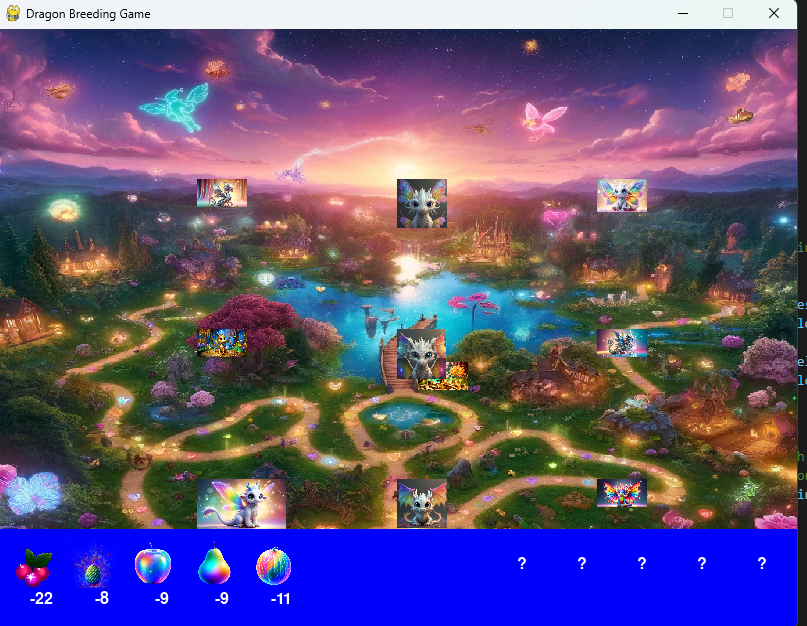
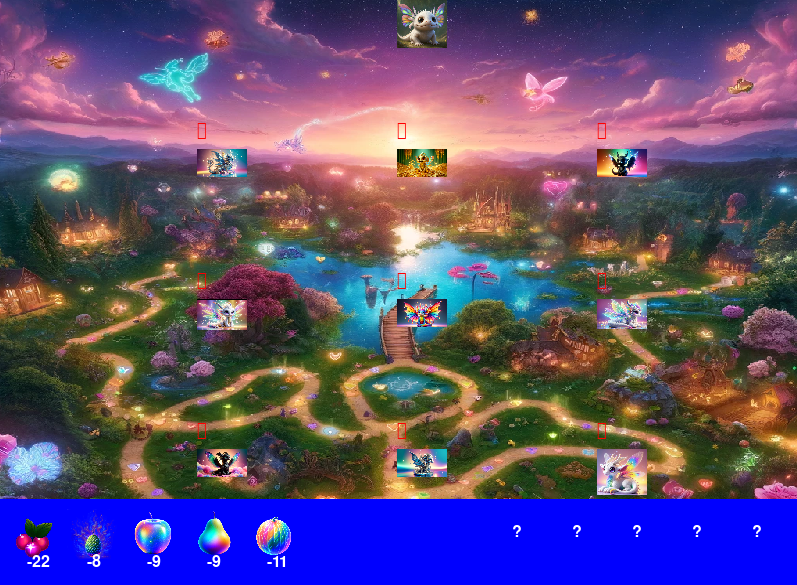
fruit spawns

diff --git a/breeding.py b/breeding.py
@@ -2,6 +2,7 @@ import pygame
 import sqlite3
 import os
 import random
+import math
 from tkinter import Tk, filedialog
 
 # Constants
@@ -11,6 +12,10 @@ RED = (255, 0, 0)
 WHITE = (255, 255, 255)
 BACKGROUND_IMAGE = "breedingbackground.png"
 DRAGON_IMAGE_FOLDER = "dragons"  # Correct folder containing dragon images
+FRUIT_SPEED_MODIFIERS = {
+    "gleamberry": -0.5,
+    "shimmeringapple": 0.5,
+}
 
 # Initialize Pygame
 pygame.init()
@@ -18,6 +23,7 @@ pygame.font.init()  # Initialize the font module
 
 # Define font
 small_font = pygame.font.Font(None, 24)
+large_font = pygame.font.Font(None, 36)
 
 # Load background image
 background = pygame.image.load(BACKGROUND_IMAGE)
@@ -147,6 +153,8 @@ for i, dragon_data in enumerate(selected_dragons):
     
     dragon_image = pygame.transform.scale(dragon_image, new_size)
     
+    initial_speed = 1.5 + (0.5 if "speed" in dragon_data[4].lower() or "Flightspeed" in dragon_data[6] else 0)
+    
     dragon = {
         "id": dragon_data[0],
         "name": dragon_data[3],
@@ -159,14 +167,19 @@ for i, dragon_data in enumerate(selected_dragons):
         "nurture": dragon_data[9],
         "gender": dragon_data[10],
         "image": dragon_image,
-        "position": positions[i]
+        "position": list(positions[i]),  # Convert tuple to list for mutability
+        "speed": initial_speed,
+        "target": None,
+        "holding_fruit": None
     }
     dragons.append(dragon)
 
-def draw_text(surface, text, font, color, rect):
+# Function to draw text
+def draw_text(surface, text, font, color, position):
     text_surface = font.render(text, True, color)
-    surface.blit(text_surface, (rect.x + (rect.width - text_surface.get_width()) // 2, rect.y + (rect.height - text_surface.get_height()) // 2))
+    surface.blit(text_surface, position)
 
+# Function to draw inventory
 def draw_inventory(surface, inventory, selected_inventory_slot=None):
     pygame.draw.rect(surface, BLUE, (0, HEIGHT - 100, WIDTH, 100))  # Adjusted to fit within the screen dimensions
 
@@ -180,7 +193,7 @@ def draw_inventory(surface, inventory, selected_inventory_slot=None):
             pygame.draw.rect(surface, RED, box_rect, 3)  # Highlight selected slot
         if slot is None:
             # Draw empty slot with ?
-            draw_text(surface, "?", small_font, WHITE, box_rect)
+            draw_text(surface, "?", small_font, WHITE, (x_offset + 15, y_offset + 15))
         else:
             color, image_filename = slot
             pygame.draw.rect(surface, color, box_rect)
@@ -197,19 +210,77 @@ def draw_inventory(surface, inventory, selected_inventory_slot=None):
     x_offset = 10  # Reset x_offset for fruit images
     for fruit, image in fruit_images_dict.items():
         surface.blit(image, (x_offset, y_offset))
-        draw_text(surface, str(inventory[fruit]), small_font, WHITE, pygame.Rect(x_offset + 20, y_offset + 45, 30, 30))
+        draw_text(surface, str(inventory[fruit]), small_font, WHITE, (x_offset + 20, y_offset + 45))
         x_offset += 60  # Move right for the next fruit
 
 # Function to draw dragons
 def draw_dragons(surface):
     for dragon in dragons:
         surface.blit(dragon["image"], dragon["position"])
+        gender_symbol = "♂" if dragon["gender"] == "Male" else "♀"
+        draw_text(surface, gender_symbol, large_font, RED, (dragon["position"][0], dragon["position"][1] - 30))
+        if dragon["holding_fruit"]:
+            fruit_image = fruit_images_dict[dragon["holding_fruit"]]
+            surface.blit(fruit_image, (dragon["position"][0] + 25, dragon["position"][1] + 25))
 
 # Function to draw fruits on the game board
 fruits_on_board = []
+
+def spawn_fruits():
+    fruit_types = ["gleamberry", "flamefruit", "shimmeringapple", "etherealpear"]
+    for fruit_type in fruit_types:
+        while True:
+            x, y = random.randint(50, WIDTH - 50), random.randint(50, HEIGHT - 150)
+            # Ensure fruits do not spawn on top of dragons
+            if all(calculate_distance((x, y), dragon["position"]) > 50 for dragon in dragons):
+                fruits_on_board.append({"type": fruit_type, "position": (x, y)})
+                break
+
 def draw_fruits_on_board(surface):
     for fruit in fruits_on_board:
         surface.blit(fruit_images_dict[fruit["type"]], fruit["position"])
+
+# Function to calculate distance between two points
+def calculate_distance(pos1, pos2):
+    return math.sqrt((pos1[0] - pos2[0]) ** 2 + (pos1[1] - pos2[1]) ** 2)
+
+# Function to determine target for a dragon
+def determine_target(dragon):
+    if dragon["holding_fruit"] == "flamefruit":
+        targets = [d for d in dragons if d["holding_fruit"] == "flamefruit" and d["id"] != dragon["id"]]
+        if targets:
+            targets.sort(key=lambda d: calculate_distance(dragon["position"], d["position"]))
+            return targets[0]["position"]
+    elif dragon["holding_fruit"]:
+        targets = [d for d in dragons if d["gender"] != dragon["gender"]]
+        if targets:
+            targets.sort(key=lambda d: calculate_distance(dragon["position"], d["position"]))
+            return targets[0]["position"]
+    else:
+        if fruits_on_board:
+            fruits_on_board.sort(key=lambda f: calculate_distance(dragon["position"], f["position"]))
+            return fruits_on_board[0]["position"]
+    return None
+
+# Function to move dragons
+def move_dragons():
+    for dragon in dragons:
+        if not dragon["target"]:
+            dragon["target"] = determine_target(dragon)
+            print(f"Dragon {dragon['name']} targeting {dragon['target']}")
+        if dragon["target"]:
+            dx, dy = dragon["target"][0] - dragon["position"][0], dragon["target"][1] - dragon["position"][1]
+            distance = math.sqrt(dx**2 + dy**2)
+            if distance > 0:
+                dx, dy = dx / distance, dy / distance  # Normalize
+                speed_modifier = FRUIT_SPEED_MODIFIERS.get(dragon["holding_fruit"], 0)
+                dragon["speed"] = 1.5 + speed_modifier  # Ensure speed is recalculated correctly
+                dragon["position"][0] += dx * dragon["speed"]
+                dragon["position"][1] += dy * dragon["speed"]
+                print(f"Dragon {dragon['name']} moving to {dragon['position']}")
+            if distance < 5:  # Reached target
+                dragon["target"] = None
+                print(f"Dragon {dragon['name']} reached the target")
 
 # Example usage
 screen = pygame.display.set_mode((WIDTH, HEIGHT))
@@ -220,6 +291,7 @@ def main():
     running = True
     selected_inventory_slot = None
     selected_fruit = None
+    spawn_fruits()  # Spawn initial fruits on the board
     while running:
         for event in pygame.event.get():
             if event.type == pygame.QUIT:
@@ -237,6 +309,8 @@ def main():
                     fruits_on_board.append({"type": selected_fruit, "position": (x - 25, y - 25)})
                     fruit_counts[selected_fruit] -= 1
                     selected_fruit = None
+
+        move_dragons()  # Update dragon positions
 
         screen.fill((0, 0, 0))  # Clear the screen with black
         screen.blit(background, (0, 0))  # Draw background image
